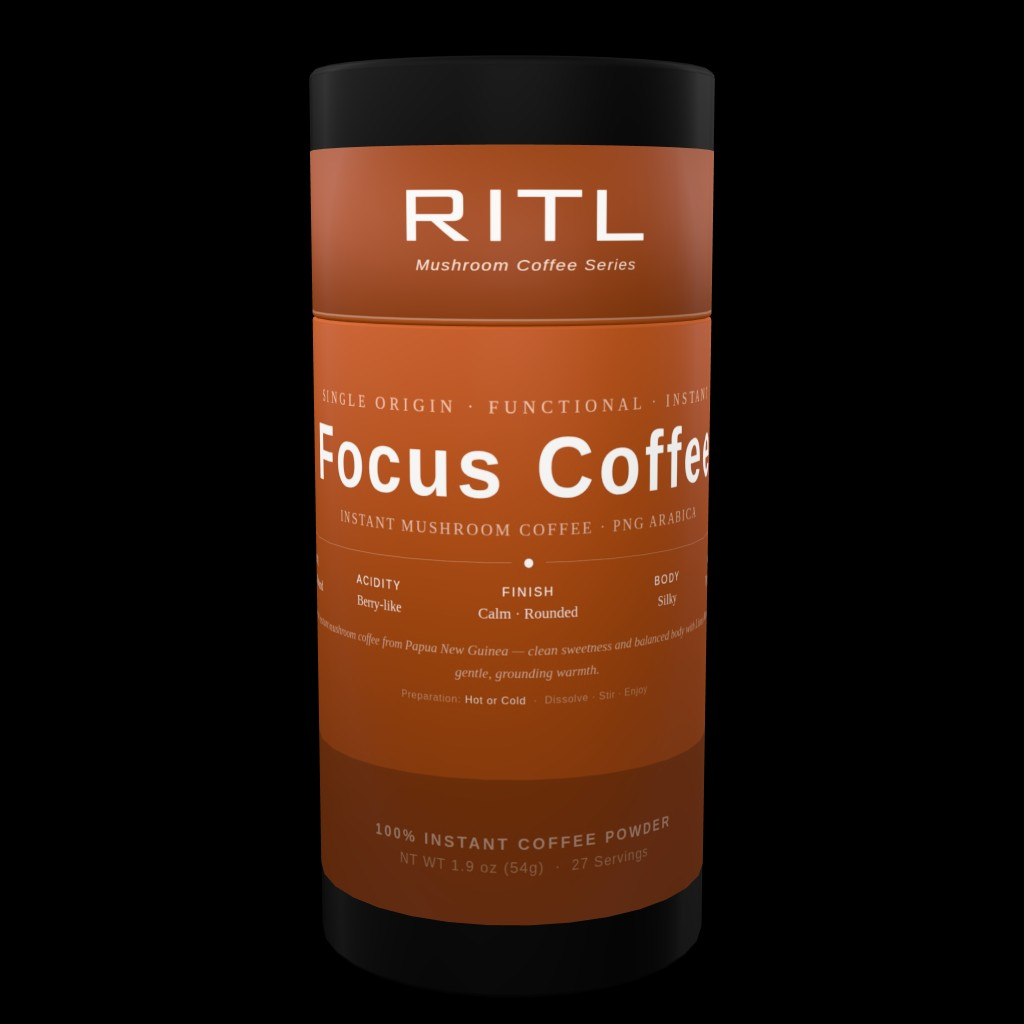
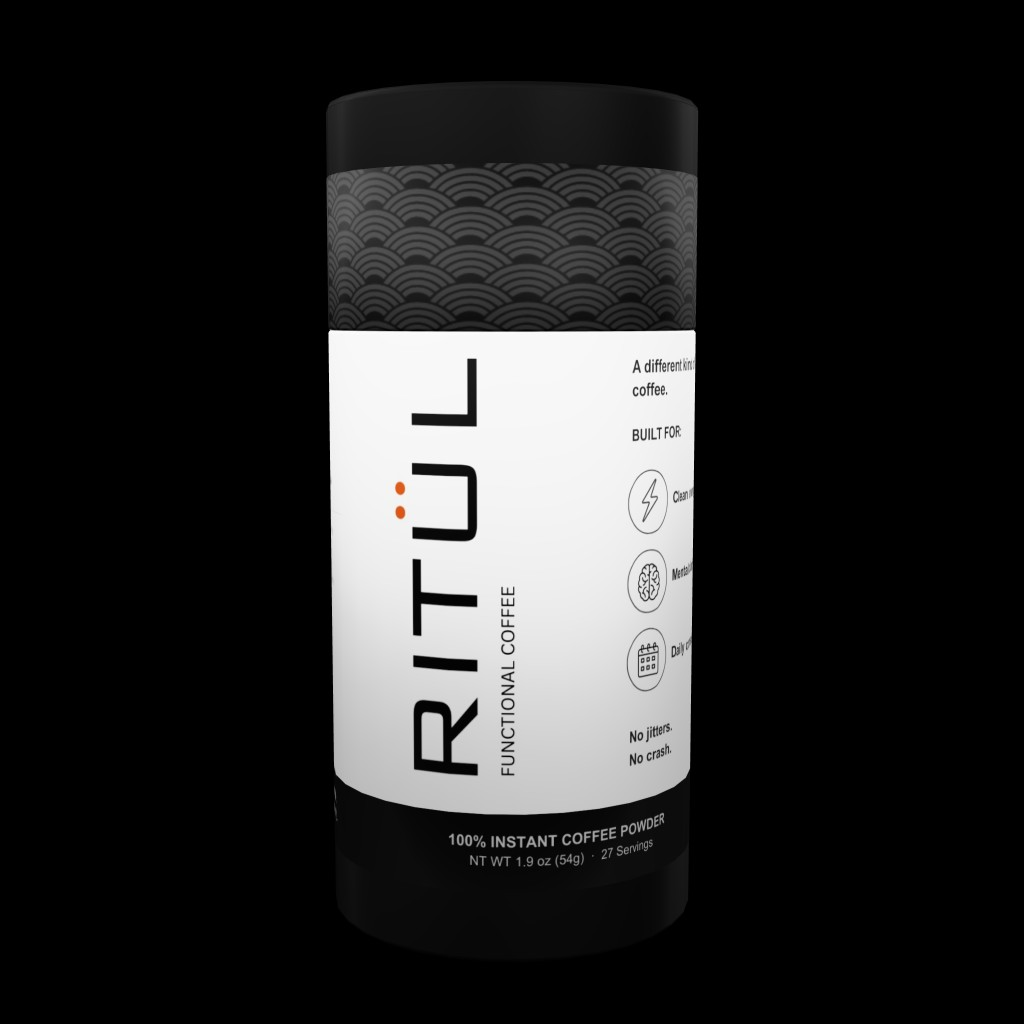
Replace Focus Coffee 3D gallery thumbnail with new tube mockup.
Uses the updated black-and-white RITÜL tube art and serves viewer thumbs unoptimized to avoid stale Next.js image cache.

Changed region(s): [[0.2812, 0.0312, 0.7188, 0.9062]]

diff --git a/src/lib/stripe/products.ts b/src/lib/stripe/products.ts
@@ -164,7 +164,7 @@ export const products: Record<ProductId, Product> = {
         viewerUrl: FOCUS_COFFEE_VIEWER_URL,
         alt: "Focus Coffee interactive product view",
         label: "3D View",
-        thumbnailSrc: "/products/focus-canister-clean.png",
+        thumbnailSrc: "/products/focus-3d-thumb.png",
       },
     ],
   },

diff --git a/src/components/product/ProductGallery.tsx b/src/components/product/ProductGallery.tsx
@@ -121,6 +121,7 @@ function GalleryThumbnail({
             src={thumbSrc}
             alt=""
             fill
+            unoptimized={item.type === "viewer"}
             className={
               item.type === "viewer" ? "object-contain p-1" : "object-cover"
             }